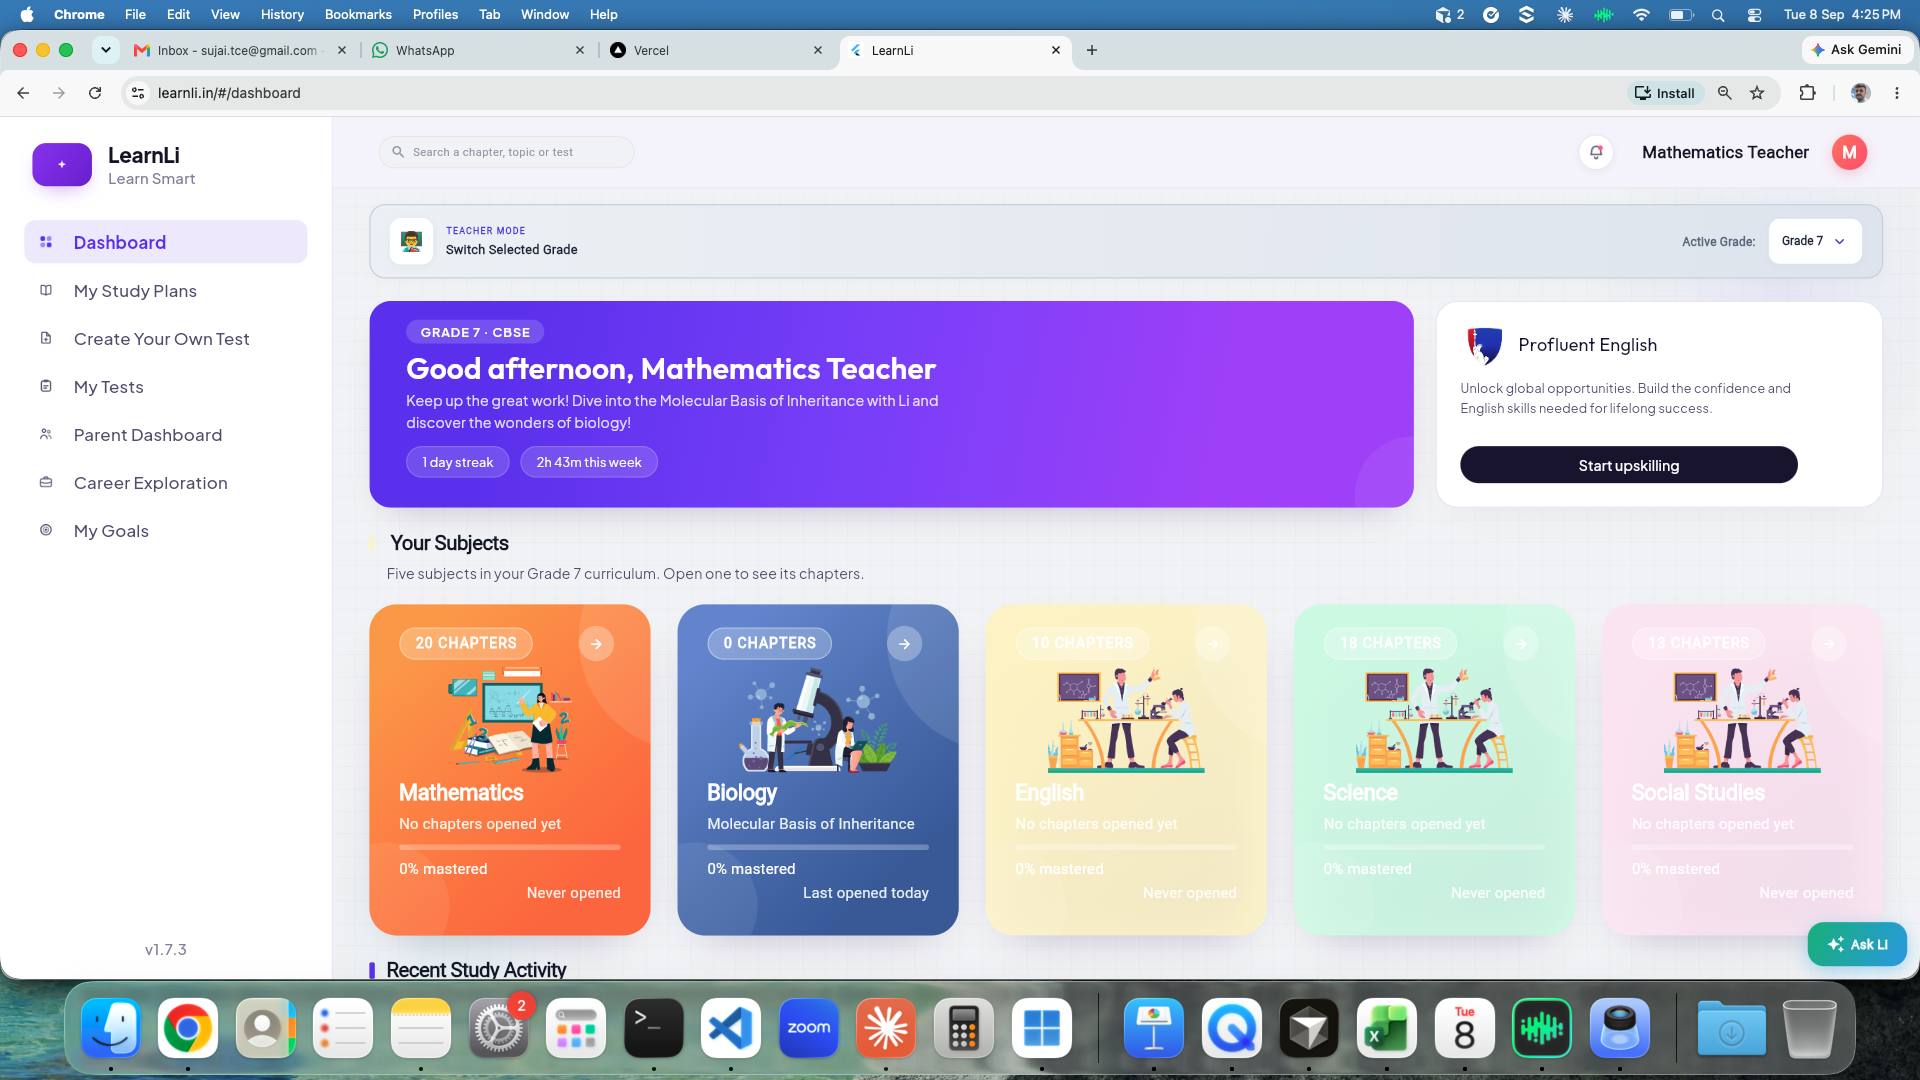
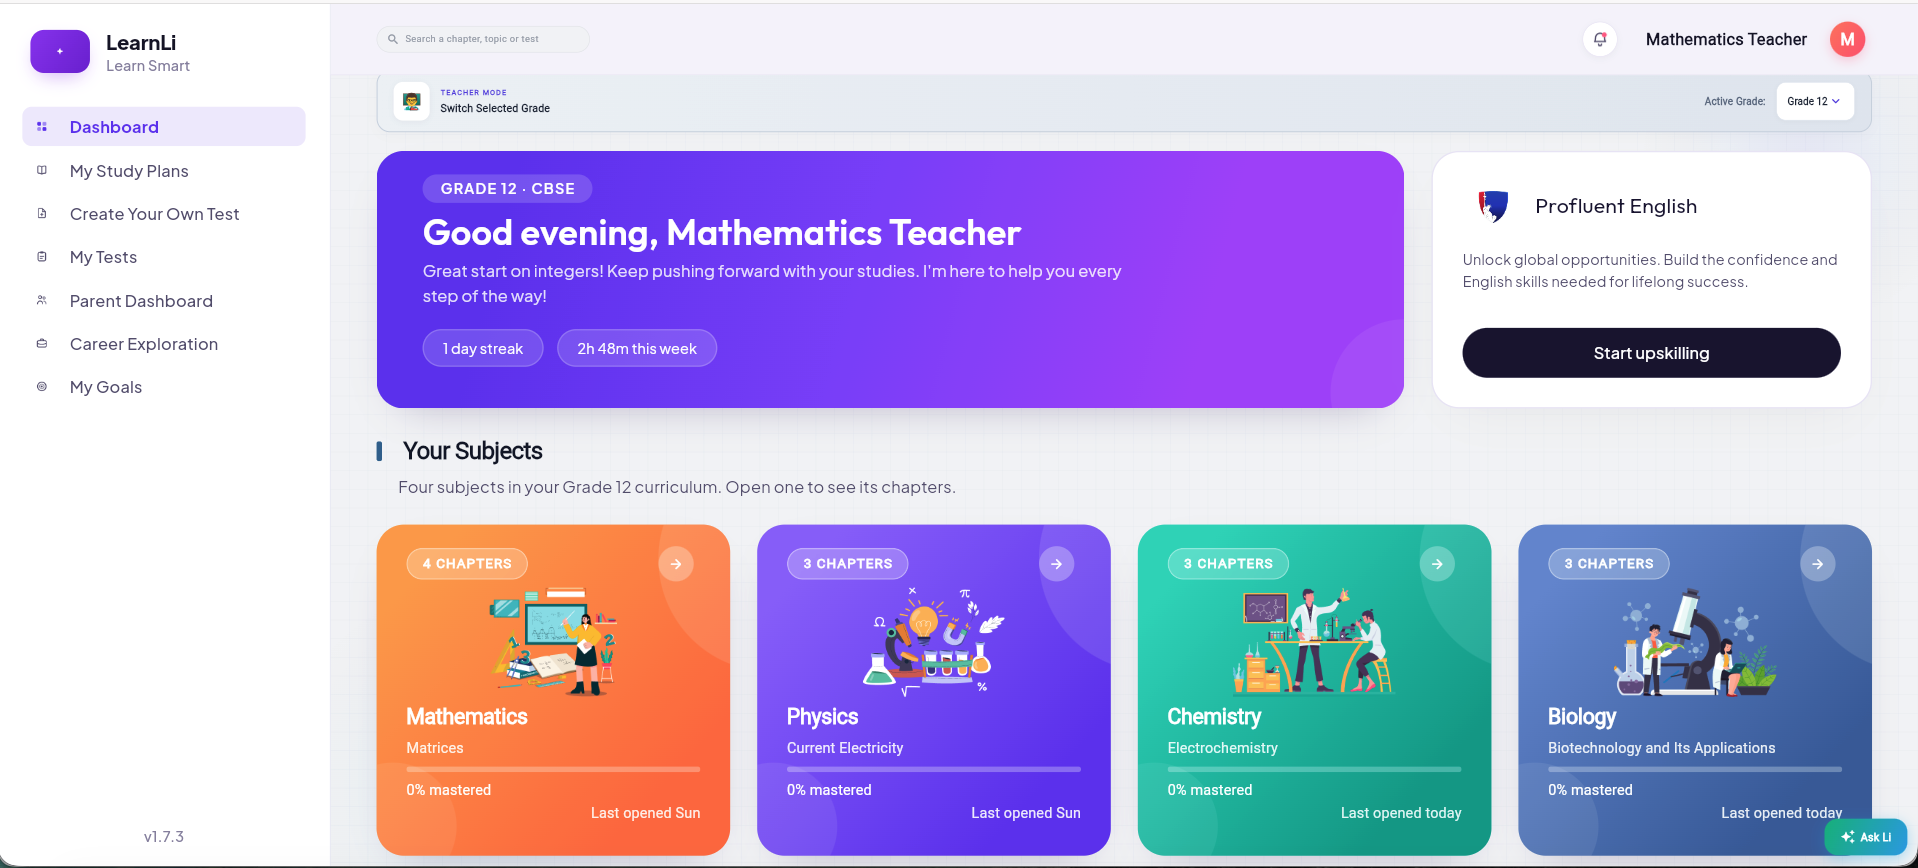
Swap dashboard shot to Grade 12 and drop the Ask Li screenshot
Use the four-subject Grade 12 dashboard instead of the Grade 7 row with placeholder cards, and keep only the live Ask Li demo.

diff --git a/src/lib/site.ts b/src/lib/site.ts
@@ -321,18 +321,14 @@ export const productShots = {
     title: "The week at a glance — subjects, streaks, and the next honest chapter.",
     body: "Teacher or student, the landing is the same shape: active grade, subjects with chapters and mastery, recent activity. Li suggests the next dive without burying the timetable.",
     src: "/product/dashboard.png",
-    alt: "LearnLi dashboard with subject cards for Mathematics, Biology, English, Science and Social Studies, plus a teacher-mode welcome banner.",
-    width: 1920,
-    height: 1080,
+    alt: "LearnLi dashboard in teacher mode for Grade 12, with subject cards for Mathematics, Physics, Chemistry and Biology.",
+    width: 1918,
+    height: 868,
   },
   askLi: {
     kicker: "Ask Li",
     title: "Ask anything in the chapter. Li answers like a tutor, not a search box.",
-    body: "A teal companion window: type a doubt, get a definition, an equation, and the school example. The live demo on the right plays the same motion as a real Ask Li chat.",
-    src: "/product/ask-li.png",
-    alt: "Ask Li chat window. A student asks what photosynthesis is; Li replies with a definition and the chemical equation.",
-    width: 410,
-    height: 573,
+    body: "A teal companion window: type a doubt, get a definition, an equation, and the school example. Tap a topic — the chat plays the reply the way a real Ask Li window does.",
   },
   interactive: {
     kicker: "Interactive learning",

diff --git a/src/components/home/ProductStory.tsx b/src/components/home/ProductStory.tsx
@@ -158,16 +158,8 @@ export function ProductStory() {
         <p className="mt-4 max-w-2xl text-base leading-relaxed text-foreground/70">
           {productShots.askLi.body}
         </p>
-        <div className="mt-8 flex flex-col items-center justify-center gap-8 lg:flex-row lg:items-start">
+        <div className="mt-8 flex justify-center">
           <AskLiDemo />
-          <div className="w-full max-w-sm">
-            <Shot
-              src={productShots.askLi.src}
-              alt={productShots.askLi.alt}
-              width={productShots.askLi.width}
-              height={productShots.askLi.height}
-            />
-          </div>
         </div>
         <p className="mt-4 text-center text-xs text-foreground/50">
           Tap Photosynthesis, Heat, or Integers — the chat plays the reply the way a real Ask Li
